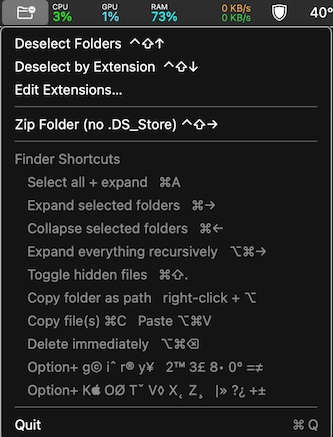
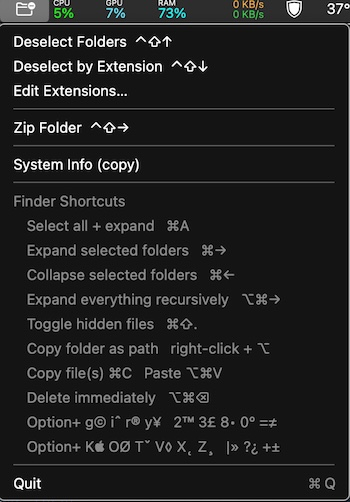
system info

Changed region(s): [[0.0, 0.0, 1.0, 1.0], [0.6907, 0.5652, 0.8108, 0.6247], [0.6907, 0.8032, 0.7207, 0.833]]

diff --git a/main.swift b/main.swift
@@ -32,6 +32,7 @@ class AppDelegate: NSObject, NSApplicationDelegate {
         }
     }
 
+
     func setupStatusItem() {
         statusItem = NSStatusBar.system.statusItem(withLength: NSStatusItem.squareLength)
         if let button = statusItem.button {
@@ -44,7 +45,9 @@ class AppDelegate: NSObject, NSApplicationDelegate {
         menu.addItem(NSMenuItem(title: "Deselect by Extension  ⌃⇧↓", action: #selector(runDeselectExtensions), keyEquivalent: ""))
         menu.addItem(NSMenuItem(title: "Edit Extensions…", action: #selector(editExtensions), keyEquivalent: ""))
         menu.addItem(NSMenuItem.separator())
-        menu.addItem(NSMenuItem(title: "Zip Folder (no .DS_Store) ⌃⇧→", action: #selector(runZipFolder), keyEquivalent: ""))
+        menu.addItem(NSMenuItem(title: "Zip Folder  ⌃⇧→", action: #selector(runZipFolder), keyEquivalent: ""))
+        menu.addItem(NSMenuItem.separator())
+        menu.addItem(NSMenuItem(title: "System Info (copy)", action: #selector(copySystemProfilerScript), keyEquivalent: ""))
         menu.addItem(NSMenuItem.separator())
 
         let referenceTitle = NSMenuItem(title: "Finder Shortcuts", action: nil, keyEquivalent: "")
@@ -74,6 +77,7 @@ class AppDelegate: NSObject, NSApplicationDelegate {
         menu.addItem(NSMenuItem.separator())
         menu.addItem(NSMenuItem(title: "Quit", action: #selector(quit), keyEquivalent: "q"))
 
+
         menu.items.forEach { if $0.action != nil { $0.target = self } }
         statusItem.menu = menu
     }
@@ -81,6 +85,7 @@ class AppDelegate: NSObject, NSApplicationDelegate {
     @objc func quit() {
         NSApp.terminate(nil)
     }
+
 
     func registerHotKeys() {
         var eventType = EventTypeSpec(eventClass: OSType(kEventClassKeyboard), eventKind: OSType(kEventHotKeyPressed))
@@ -108,6 +113,7 @@ class AppDelegate: NSObject, NSApplicationDelegate {
         RegisterEventHotKey(UInt32(kVK_RightArrow), UInt32(controlKey | shiftKey), hotKeyIDZip, GetApplicationEventTarget(), 0, &hotKeyRefZip)
     }
 
+
     @objc func runDeselectFolders() {
         deselectFolders()
     }
@@ -119,6 +125,85 @@ class AppDelegate: NSObject, NSApplicationDelegate {
     @objc func runZipFolder() {
         zipSelectedFolder()
     }
+
+    @objc func copySystemProfilerScript() {
+        let script = """
+        tmpfile="/tmp/sysinfo.$(date +%Y%m%d_%H%M%S)_$$.txt"
+
+        echo "========= Date =========" >> "$tmpfile"
+        echo >> "$tmpfile"
+        date >> "$tmpfile"
+        echo >> "$tmpfile"
+
+        echo "========= CPU =========" >> "$tmpfile"
+        echo >> "$tmpfile"
+        sysctl -n machdep.cpu.brand_string >> "$tmpfile"
+        echo >> "$tmpfile"
+
+        for section in SPSoftwareDataType SPStorageDataType SPDisplaysDataType SPAudioDataType SPBluetoothDataType SPUSBDataType SPThunderboltDataType SPPowerDataType SPNetworkDataType; do
+          echo "========= $section =========" >> "$tmpfile"
+          echo >> "$tmpfile"
+          system_profiler "$section" >> "$tmpfile"
+          echo >> "$tmpfile"
+        done
+
+        echo "========= Network Hardware Ports =========" >> "$tmpfile"
+        echo >> "$tmpfile"
+        networksetup -listallhardwareports >> "$tmpfile"
+        echo >> "$tmpfile"
+
+        echo "========= Wi-Fi Info =========" >> "$tmpfile"
+        echo >> "$tmpfile"
+        networksetup -getinfo Wi-Fi >> "$tmpfile"
+        echo >> "$tmpfile"
+
+        echo "========= Wi-Fi DNS Servers =========" >> "$tmpfile"
+        echo >> "$tmpfile"
+        networksetup -getdnsservers Wi-Fi >> "$tmpfile"
+        echo >> "$tmpfile"
+
+        echo "========= Memory (vm_stat) =========" >> "$tmpfile"
+        echo >> "$tmpfile"
+        vm_stat >> "$tmpfile"
+        echo >> "$tmpfile"
+
+        echo "========= Disk Layout (diskutil list) =========" >> "$tmpfile"
+        echo >> "$tmpfile"
+        diskutil list >> "$tmpfile"
+        echo >> "$tmpfile"
+
+        echo "========= Home Folder Sizes =========" >> "$tmpfile"
+        echo >> "$tmpfile"
+        du -sh ~/Desktop ~/Music ~/Documents ~/Downloads ~/Pictures ~/Movies 2>/dev/null | sort -rh >> "$tmpfile"
+        echo >> "$tmpfile"
+
+        echo "========= Brew Installed Apps (30MB+) =========" >> "$tmpfile"
+        echo >> "$tmpfile"
+        brew_cellar=$(brew --cellar)
+        du -sk "$brew_cellar"/*/* 2>/dev/null | awk -v min=30720 '$1 >= min' | sort -rn | awk -F'/' '{
+          split($0, a, "\\t")
+          size_kb = a[1]
+          path = $0
+          sub(/^[0-9]+\\t/, "", path)
+          n = split(path, parts, "/")
+          name = parts[n-1] " " parts[n]
+          if (size_kb >= 1048576) {
+            printf "%-20s %.1fG\\n", name, size_kb/1048576
+          } else {
+            printf "%-20s %dM\\n", name, size_kb/1024
+          }
+        }' >> "$tmpfile"
+        echo >> "$tmpfile"
+
+        open -a TextEdit "$tmpfile"
+        """
+        let pasteboard = NSPasteboard.general
+        pasteboard.clearContents()
+        pasteboard.setString(script, forType: .string)
+
+        showInfoAlert(title: "Copied", message: "System info script copied — paste into Terminal and press Enter. Report opens automatically in TextEdit.")
+    }
+
 
     @objc func editExtensions() {
         let alert = NSAlert()
@@ -135,6 +220,7 @@ class AppDelegate: NSObject, NSApplicationDelegate {
         }
     }
 
+
     func getSavedExtensions() -> [String] {
         let raw = defaults.string(forKey: extensionsKey) ?? "jpg, pdf"
         return raw
@@ -147,6 +233,7 @@ class AppDelegate: NSObject, NSApplicationDelegate {
         defaults.set(text, forKey: extensionsKey)
     }
 }
+
 
 func deselectFolders() {
     guard AXIsProcessTrusted() else {
@@ -181,6 +268,7 @@ func deselectFolders() {
         }
     }
 }
+
 
 func deselectByExtension(_ extensions: [String]) {
     guard AXIsProcessTrusted() else {
@@ -217,6 +305,7 @@ func deselectByExtension(_ extensions: [String]) {
         }
     }
 }
+
 
 func zipSelectedFolder() {
     guard let folderPaths = getSelectedFolderPaths() else {
@@ -263,6 +352,7 @@ func zipSelectedFolder() {
         showErrorAlert(title: "Zip Failed", message: error.localizedDescription)
     }
 }
+
 
 func getSelectedFolderPaths() -> [String]? {
     let script = """

diff --git a/README.md b/README.md
@@ -14,6 +14,9 @@ your selection.
 
 Edit the extension list from the menu bar icon → "Edit Extensions…"
 
+scripts to copy to clipboard to paste into Terminal
+System Info (copy) = report opens in TextEdit
+
 ![](images/menu.jpg)
 
 ![](images/example.jpg)
